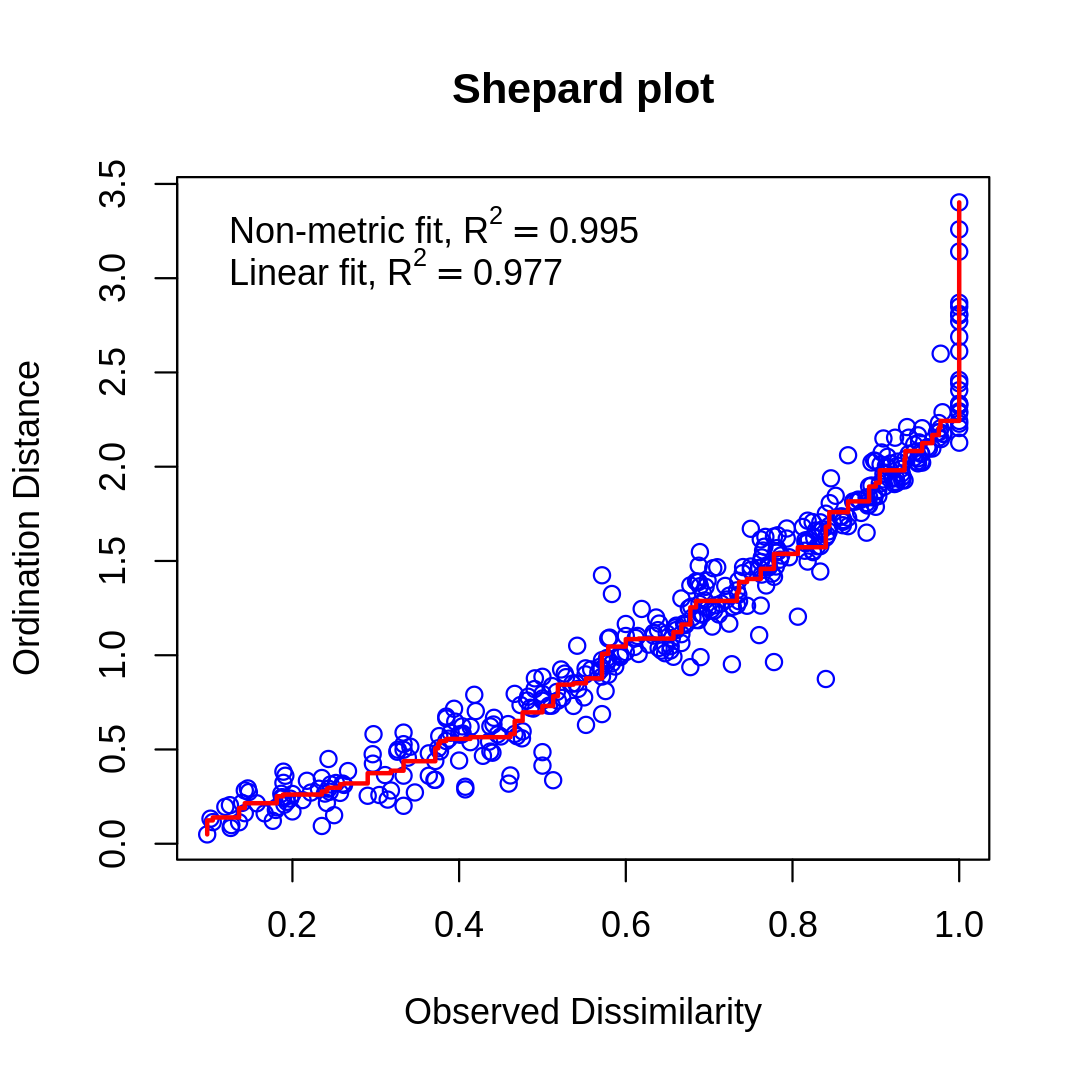
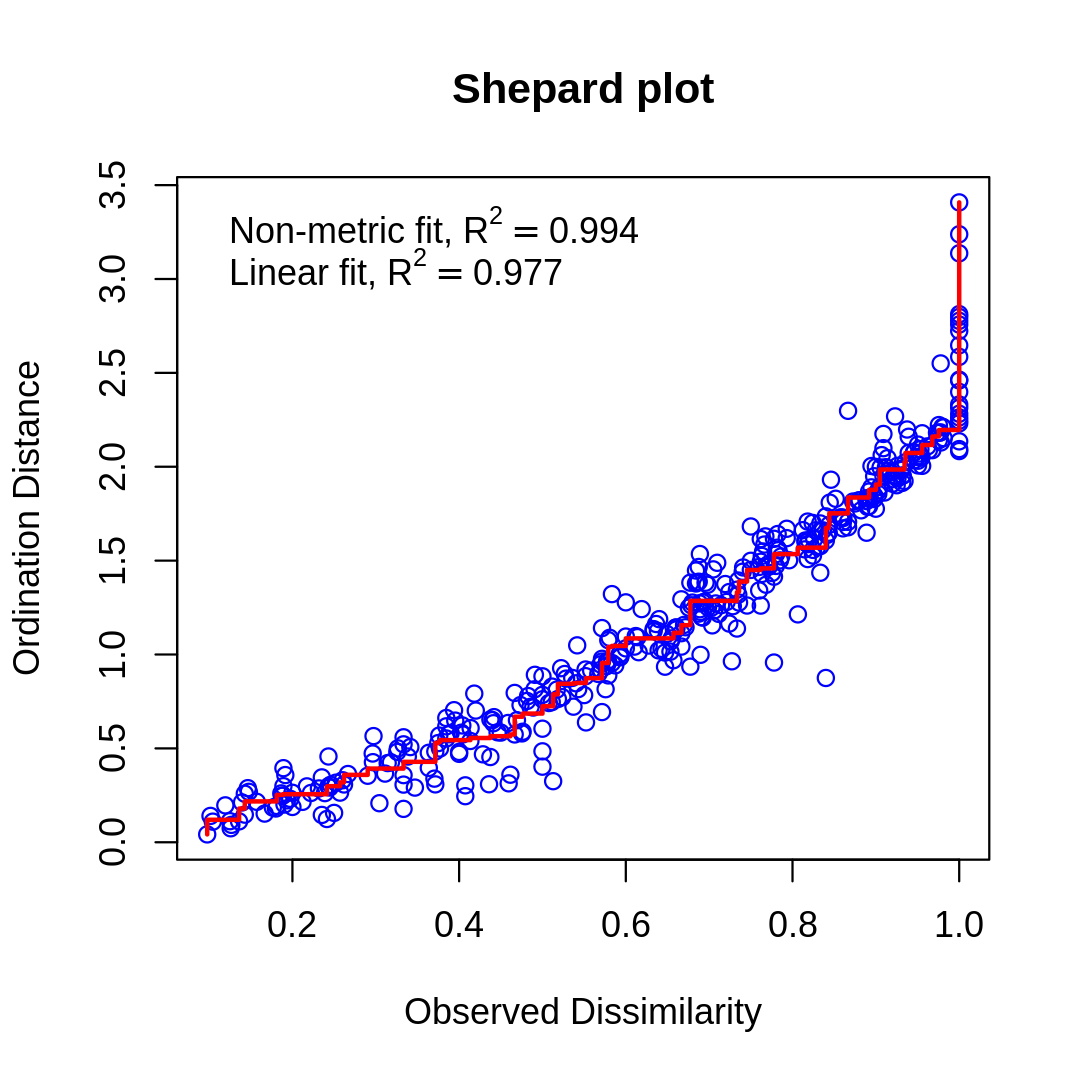
Deploying to gh-pages from  @ d1cc376dfcc0b93e74f689d95695bad5ef7fd3ae 🚀

diff --git a/pres-en/workshop09-pres-en.html b/pres-en/workshop09-pres-en.html
@@ -2054,42 +2054,33 @@ biplot.pcoa(mite.spe.h.pcoa, mite.spe.hel)
 ```r
 spe.nmds &lt;- metaMDS(spe, distance = 'bray', k = 2)
 # Run 0 stress 0.07477816 
-# Run 1 stress 0.1111221 
-# Run 2 stress 0.07383673 
+# Run 1 stress 0.07506682 
+# ... Procrustes: rmse 0.01483123  max resid 0.06357931 
+# Run 2 stress 0.120581 
+# Run 3 stress 0.08696385 
+# Run 4 stress 0.07429335 
 # ... New best solution
-# ... Procrustes: rmse 0.01961039  max resid 0.09439006 
-# Run 3 stress 0.1121106 
-# Run 4 stress 0.07429338 
-# ... Procrustes: rmse 0.01374441  max resid 0.06390258 
-# Run 5 stress 0.08841673 
-# Run 6 stress 0.07383677 
-# ... Procrustes: rmse 2.106622e-05  max resid 0.0001013053 
+# ... Procrustes: rmse 0.0239829  max resid 0.09222353 
+# Run 5 stress 0.1235188 
+# Run 6 stress 0.1111093 
+# Run 7 stress 0.1127533 
+# Run 8 stress 0.1203424 
+# Run 9 stress 0.1222192 
+# Run 10 stress 0.08844558 
+# Run 11 stress 0.08797355 
+# Run 12 stress 0.117443 
+# Run 13 stress 0.1175996 
+# Run 14 stress 0.07429341 
+# ... Procrustes: rmse 2.432157e-05  max resid 7.003847e-05 
 # ... Similar to previous best
-# Run 7 stress 0.122024 
-# Run 8 stress 0.07429332 
-# ... Procrustes: rmse 0.01373006  max resid 0.06390799 
-# Run 9 stress 0.08801564 
-# Run 10 stress 0.07376235 
-# ... New best solution
-# ... Procrustes: rmse 0.00381709  max resid 0.01486715 
-# Run 11 stress 0.07383667 
-# ... Procrustes: rmse 0.003812924  max resid 0.01484758 
-# Run 12 stress 0.08841667 
-# Run 13 stress 0.07477809 
-# Run 14 stress 0.09288423 
-# Run 15 stress 0.0737622 
-# ... New best solution
-# ... Procrustes: rmse 0.0002884389  max resid 0.001387659 
-# ... Similar to previous best
-# Run 16 stress 0.07376251 
-# ... Procrustes: rmse 0.0003660669  max resid 0.001761209 
-# ... Similar to previous best
-# Run 17 stress 0.09288416 
-# Run 18 stress 0.08843915 
-# Run 19 stress 0.07376233 
-# ... Procrustes: rmse 0.0002609458  max resid 0.001251804 
-# ... Similar to previous best
-# Run 20 stress 0.07429331 
+# Run 15 stress 0.07477812 
+# ... Procrustes: rmse 0.02397969  max resid 0.09282096 
+# Run 16 stress 0.0747781 
+# ... Procrustes: rmse 0.02397692  max resid 0.09282437 
+# Run 17 stress 0.1254006 
+# Run 18 stress 0.07506673 
+# Run 19 stress 0.1208167 
+# Run 20 stress 0.11235 
 # *** Solution reached
 ```
 
@@ -2110,7 +2101,7 @@ spe.nmds &lt;- metaMDS(spe, distance = 'bray', k = 2)
 
 ```r
 spe.nmds$stress
-# [1] 0.0737622
+# [1] 0.07429335
 stressplot(spe.nmds, main = "Shepard plot")
 ```
 
